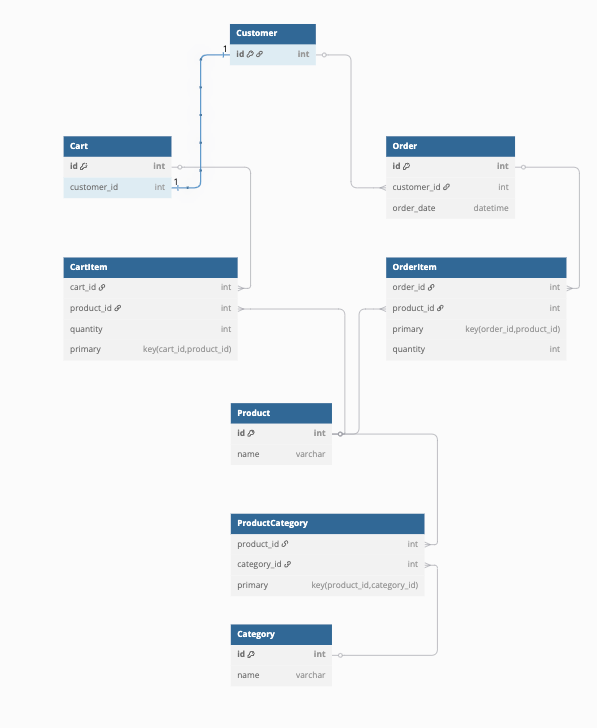
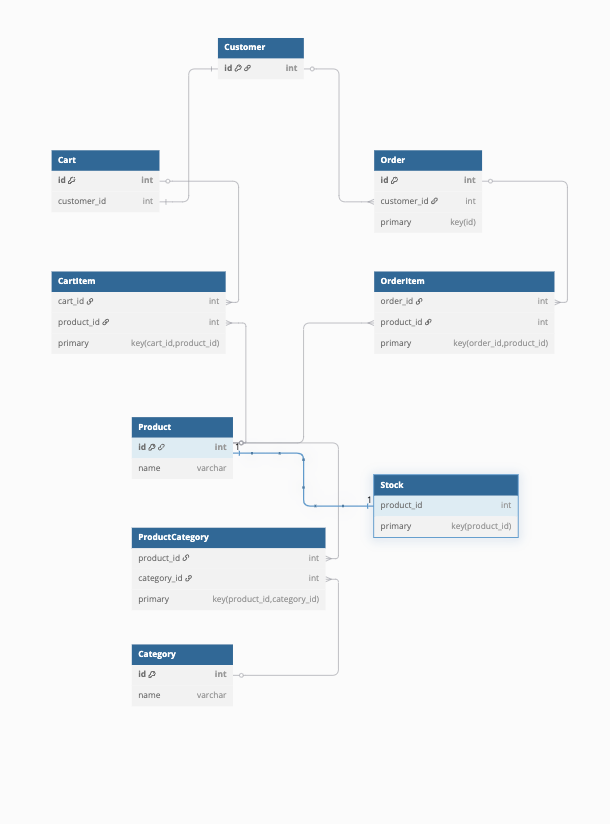
feat: initial project setup

diff --git a/src/main/kotlin/com/dt/ecommerce/infra/product/ProductEntity.kt b/src/main/kotlin/com/dt/ecommerce/infra/product/ProductEntity.kt
@@ -1,29 +1,98 @@
 package com.dt.ecommerce.infra.product
 
+import com.dt.ecommerce.infra.common.BaseEntity
+import jakarta.persistence.CascadeType
 import jakarta.persistence.Column
 import jakarta.persistence.Entity
+import jakarta.persistence.FetchType
 import jakarta.persistence.GeneratedValue
 import jakarta.persistence.GenerationType
 import jakarta.persistence.Id
+import jakarta.persistence.JoinColumn
+import jakarta.persistence.ManyToOne
+import jakarta.persistence.OneToMany
+import jakarta.persistence.OneToOne
 import jakarta.persistence.Table
+import org.hibernate.annotations.Cascade
 
 @Entity
-@Table(name = "product")
+@Table(name = "products")
 class ProductEntity(
     name: String,
+    description: String?,
     price: Double,
-    quantity: Int
-) {
-
-    @Id @GeneratedValue(strategy = GenerationType.IDENTITY)
+    stock: StockEntity
+): BaseEntity() {
+    @Id
+    @GeneratedValue(strategy = GenerationType.IDENTITY)
     var id: Long? = null
+
     @Column(name = "name", nullable = false)
     var name: String = name
+
     @Column(name = "description")
-    var description: String? = null
+    var description: String? = description
+
     @Column(name = "price", nullable = false)
     var price: Double = price
+
+    @OneToOne(fetch = FetchType.LAZY)
+    @JoinColumn(name = "stock_id", nullable = false)
+    var stock: StockEntity = stock
+}
+
+@Entity
+@Table(name = "product_categories")
+class ProductCategoryEntity(
+    product: ProductEntity,
+    category: CategoryEntity,
+    isMain: Boolean = false
+): BaseEntity() {
+
+    @Id
+    @GeneratedValue(strategy = GenerationType.IDENTITY)
+    var id: Long? = null
+
+    @ManyToOne(fetch = FetchType.LAZY)
+    @JoinColumn(name = "product_id", nullable = false)
+    var product: ProductEntity = product
+
+    @ManyToOne(fetch = FetchType.LAZY)
+    @JoinColumn(name = "category_id", nullable = false)
+    var category: CategoryEntity = category
+
+    @Column(name = "is_main", nullable = false)
+    var isMain: Boolean = isMain
+}
+
+@Entity
+@Table(name = "categories")
+class CategoryEntity(
+    name: String
+): BaseEntity() {
+
+    @Id
+    @GeneratedValue(strategy = GenerationType.IDENTITY)
+    var id: Long? = null
+
+    @Column(name = "name", nullable = false)
+    var name: String = name
+}
+
+@Entity
+@Table(name = "stocks")
+class StockEntity(
+    product: ProductEntity,
+    quantity: Int
+) : BaseEntity() {
+    @Id
+    @GeneratedValue(strategy = GenerationType.IDENTITY)
+    var id: Long? = null
+
+    @OneToOne(mappedBy = "stock", cascade = [CascadeType.ALL], orphanRemoval = true)
+    @JoinColumn(name = "product_id", nullable = false)
+    var product: ProductEntity = product
+
     @Column(name = "quantity", nullable = false)
     var quantity: Int = quantity
-
 }

diff --git a/src/test/kotlin/com/dt/ecommerce/domain/order/OrderTest.kt b/src/test/kotlin/com/dt/ecommerce/domain/order/OrderTest.kt
@@ -1,6 +1,8 @@
 package com.dt.ecommerce.domain.order
 
 import com.dt.ecommerce.domain.common.Address
+import com.dt.ecommerce.domain.common.Audit
+import com.dt.ecommerce.domain.common.AuditInfo
 import com.dt.ecommerce.domain.common.Money
 import com.dt.ecommerce.domain.common.PK
 import org.assertj.core.api.Assertions
@@ -12,11 +14,12 @@ class OrderTest {
     @Test
     fun `should create order`(){
 
-        //GIVEN
+        //GIVENd
         val items = listOf<OrderItem>()
         val customer = PK.of(1L)
         val address = Address.NONE
         val money = Money()
+        val audit = Audit.from(AuditInfo.from())
 
         val order = Order.create(
             items = items,
@@ -32,6 +35,10 @@ class OrderTest {
         Assertions.assertThat(order.totalAmount.currency).isEqualTo(money.currency)
         Assertions.assertThat(order.shippingAddress.street).isEqualTo(address.street)
         Assertions.assertThat(order.shippingAddress.city).isEqualTo(address.city)
+        Assertions.assertThat(order.audit.created.at).isNotNull()
+        Assertions.assertThat(order.audit.created.by).isEqualTo(audit.created.by)
+        Assertions.assertThat(order.audit.updated.at).isNull()
+        Assertions.assertThat(order.audit.updated.by).isEqualTo(audit.updated.by)
     }
 
 }

diff --git a/src/main/kotlin/com/dt/ecommerce/domain/product/Product.kt b/src/main/kotlin/com/dt/ecommerce/domain/product/Product.kt
@@ -8,15 +8,31 @@ import java.time.LocalDateTime
 
 data class Product(
     var pk: PK = PK.NULL,
-    val sku: String,
     val name: String,
-    val description: String,
+    val description: String? = null,
     val price: BigDecimal,
-    val discountPrice: BigDecimal? = null,
-    val stockQuantity: Int,
-    val category: String,
-    val weight: Double? = null,
-    val brand: String? = null,
+    val stock: Stock,
+    val categories: List<ProductCategory>,
     val isActive: Boolean = true,
     val audit: Audit,
+)
+
+data class ProductCategory(
+    val category: Category,
+    val product: Product,
+
+    val isMain: Boolean = false,
+    val audit: Audit,
+)
+
+
+data class Category(
+    val pk: PK = PK.NULL,
+    val name: String,
+    val audit: Audit,
+)
+
+data class Stock(
+    val product: Product,
+    val quantity: Int
 )

diff --git a/src/main/kotlin/com/dt/ecommerce/infra/customer/CustomerEntity.kt b/src/main/kotlin/com/dt/ecommerce/infra/customer/CustomerEntity.kt
@@ -1,5 +1,7 @@
 package com.dt.ecommerce.infra.customer
 
+import com.dt.ecommerce.domain.common.Audit
+import com.dt.ecommerce.domain.common.AuditInfo
 import com.dt.ecommerce.domain.common.PK
 import com.dt.ecommerce.domain.customer.Customer
 import jakarta.persistence.Column
@@ -7,8 +9,10 @@ import jakarta.persistence.Entity
 import jakarta.persistence.GeneratedValue
 import jakarta.persistence.GenerationType
 import jakarta.persistence.Id
+import jakarta.persistence.Table
 
 @Entity
+@Table(name = "customers")
 class CustomerEntity(
     email: String,
     name: String,
@@ -31,7 +35,8 @@ class CustomerEntity(
         return Customer(
             pk = PK.from(id),
             email = email,
-            name = name
+            name = name,
+            audit = Audit.from(AuditInfo.from())
         )
     }
 

diff --git a/src/main/kotlin/com/dt/ecommerce/infra/order/item/OrderItemEntity.kt b/src/main/kotlin/com/dt/ecommerce/infra/order/item/OrderItemEntity.kt
@@ -1,5 +1,7 @@
 package com.dt.ecommerce.infra.order.item
 
+import com.dt.ecommerce.domain.common.Audit
+import com.dt.ecommerce.domain.common.AuditInfo
 import com.dt.ecommerce.domain.common.PK
 import com.dt.ecommerce.domain.order.OrderItem
 import com.dt.ecommerce.infra.common.BaseEntity
@@ -8,7 +10,7 @@ import jakarta.persistence.*
 import java.math.BigDecimal
 
 @Entity
-@Table(name = "order_item")
+@Table(name = "order_items")
 class OrderItemEntity(
     order: OrderEntity,
     product: Long,
@@ -39,7 +41,7 @@ class OrderItemEntity(
             name = name,
             quantity = quantity,
             unitPrice = unitPrice,
-            createdAt = createdAt,
+            audit = Audit.from(AuditInfo.from(by = createdBy))
         )
     }
 

diff --git a/src/main/kotlin/com/dt/ecommerce/infra/order/OrderEntity.kt b/src/main/kotlin/com/dt/ecommerce/infra/order/OrderEntity.kt
@@ -1,5 +1,7 @@
 package com.dt.ecommerce.infra.order
 
+import com.dt.ecommerce.domain.common.Audit
+import com.dt.ecommerce.domain.common.AuditInfo
 import com.dt.ecommerce.domain.common.PK
 import com.dt.ecommerce.domain.order.Order
 import com.dt.ecommerce.domain.order.Order.OrderStatus
@@ -74,7 +76,7 @@ class OrderEntity(
             shippingAddress = shippingAddress.toDomain(),
             totalAmount = totalAmount.toDomain(),
             notes = notes,
-            createdAt = createdAt
+            audit = Audit(AuditInfo.from(by = createdBy))
         )
     }
 

diff --git a/src/main/kotlin/com/dt/ecommerce/infra/cart/CartEntity.kt b/src/main/kotlin/com/dt/ecommerce/infra/cart/CartEntity.kt
@@ -7,8 +7,10 @@ import jakarta.persistence.Entity
 import jakarta.persistence.GeneratedValue
 import jakarta.persistence.GenerationType
 import jakarta.persistence.Id
+import jakarta.persistence.Table
 
 @Entity
+@Table(name = "carts")
 class CartEntity(
     customer: Long,
 ): BaseEntity() {
@@ -20,6 +22,8 @@ class CartEntity(
         protected set
 }
 
+@Entity
+@Table(name = "cart_items")
 class CartItemEntity(
     product: Long,
     quantity: Int

diff --git a/src/main/kotlin/com/dt/ecommerce/domain/common/Audit.kt b/src/main/kotlin/com/dt/ecommerce/domain/common/Audit.kt
@@ -25,8 +25,8 @@ data class AuditInfo(
             by = PK.NULL,
             at = LocalDateTime.now()
         )
-        fun from(by: PK) = AuditInfo(
-            by = by,
+        fun from(by: Long?) = AuditInfo(
+            by = PK.from(by),
             at = LocalDateTime.now()
         )
     }
